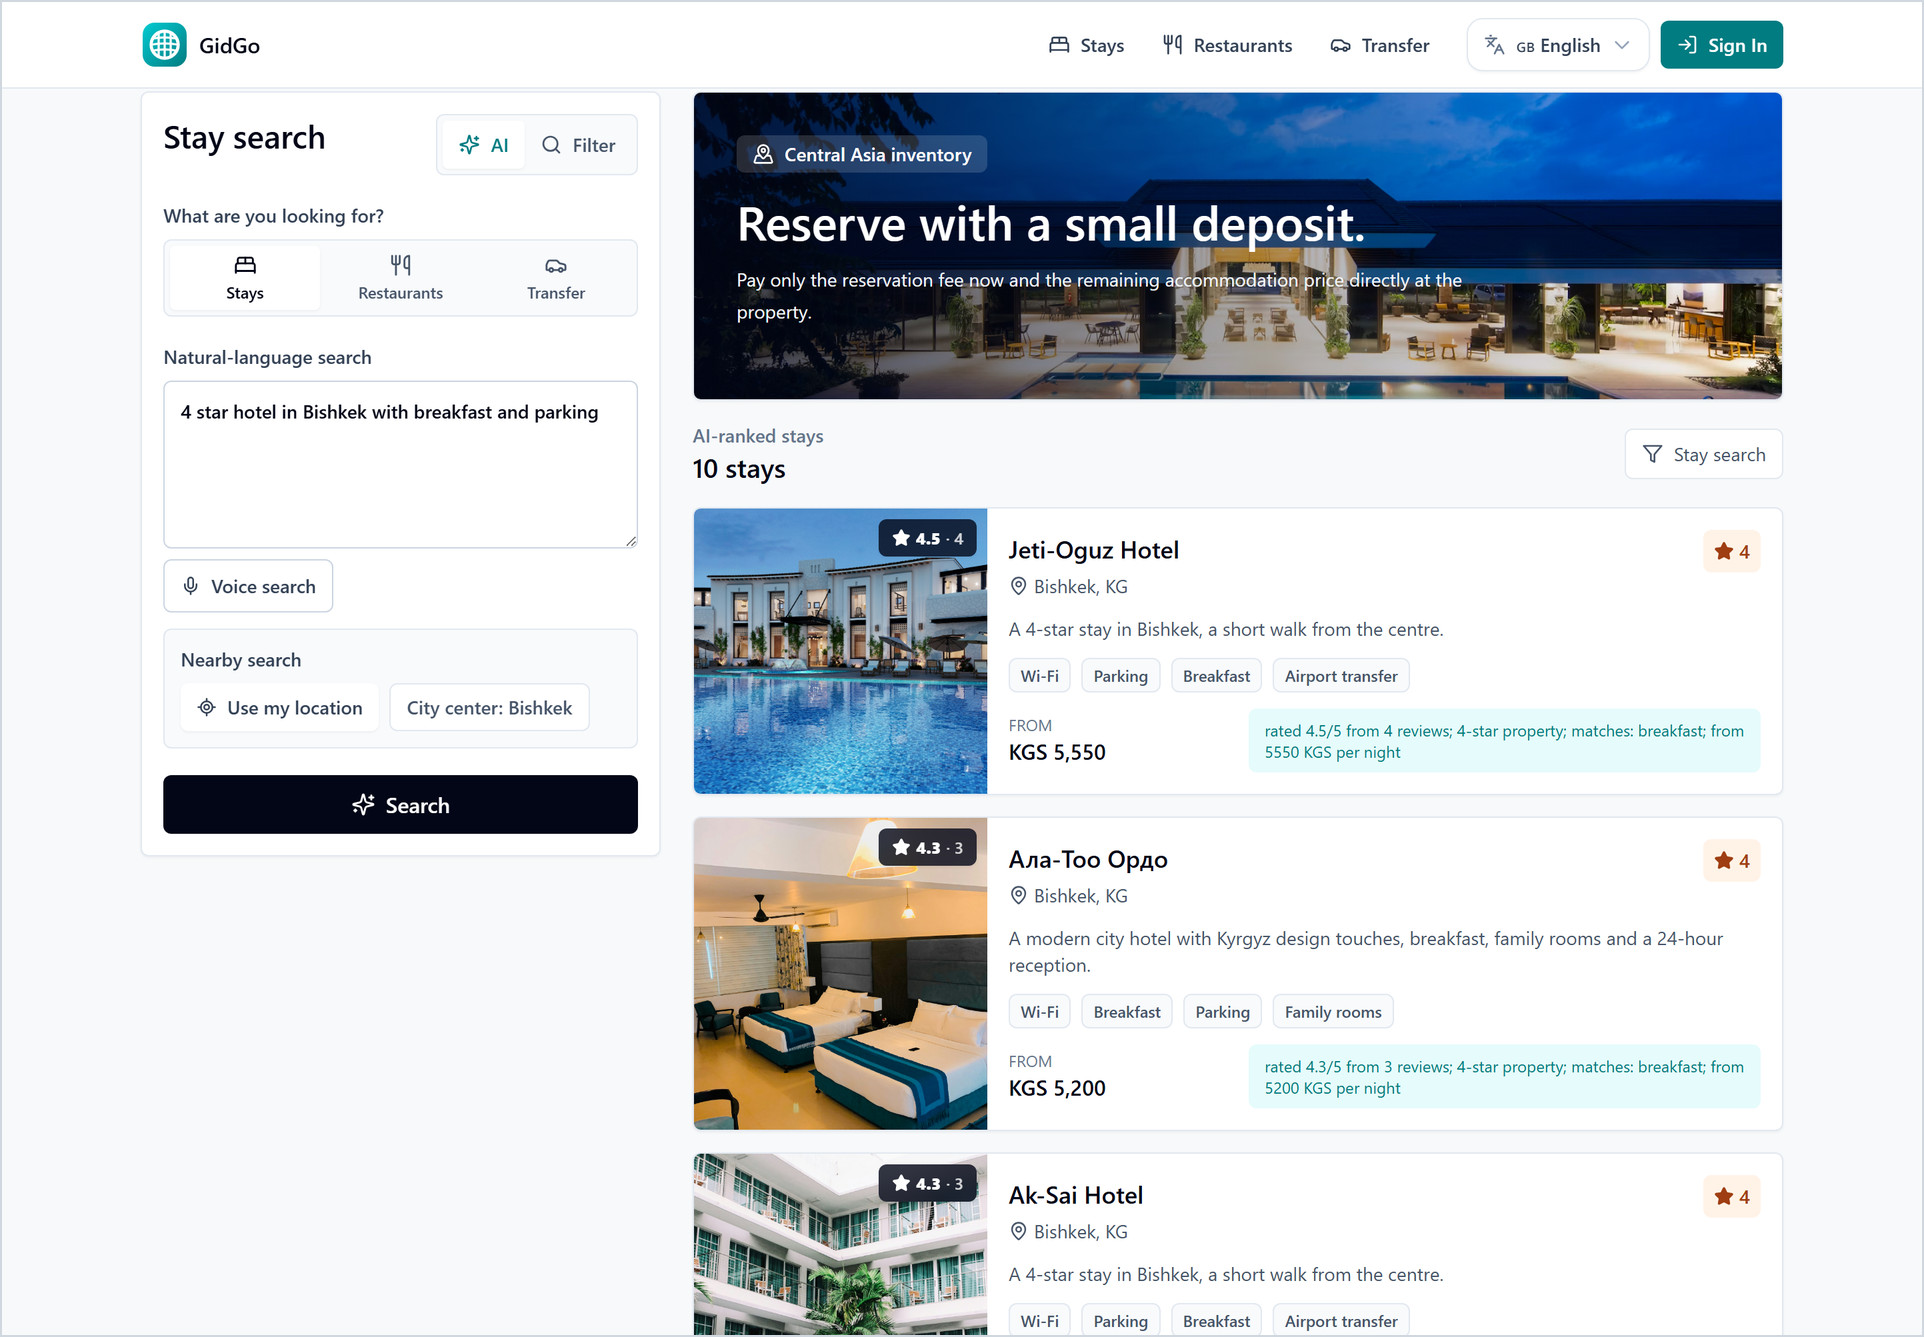
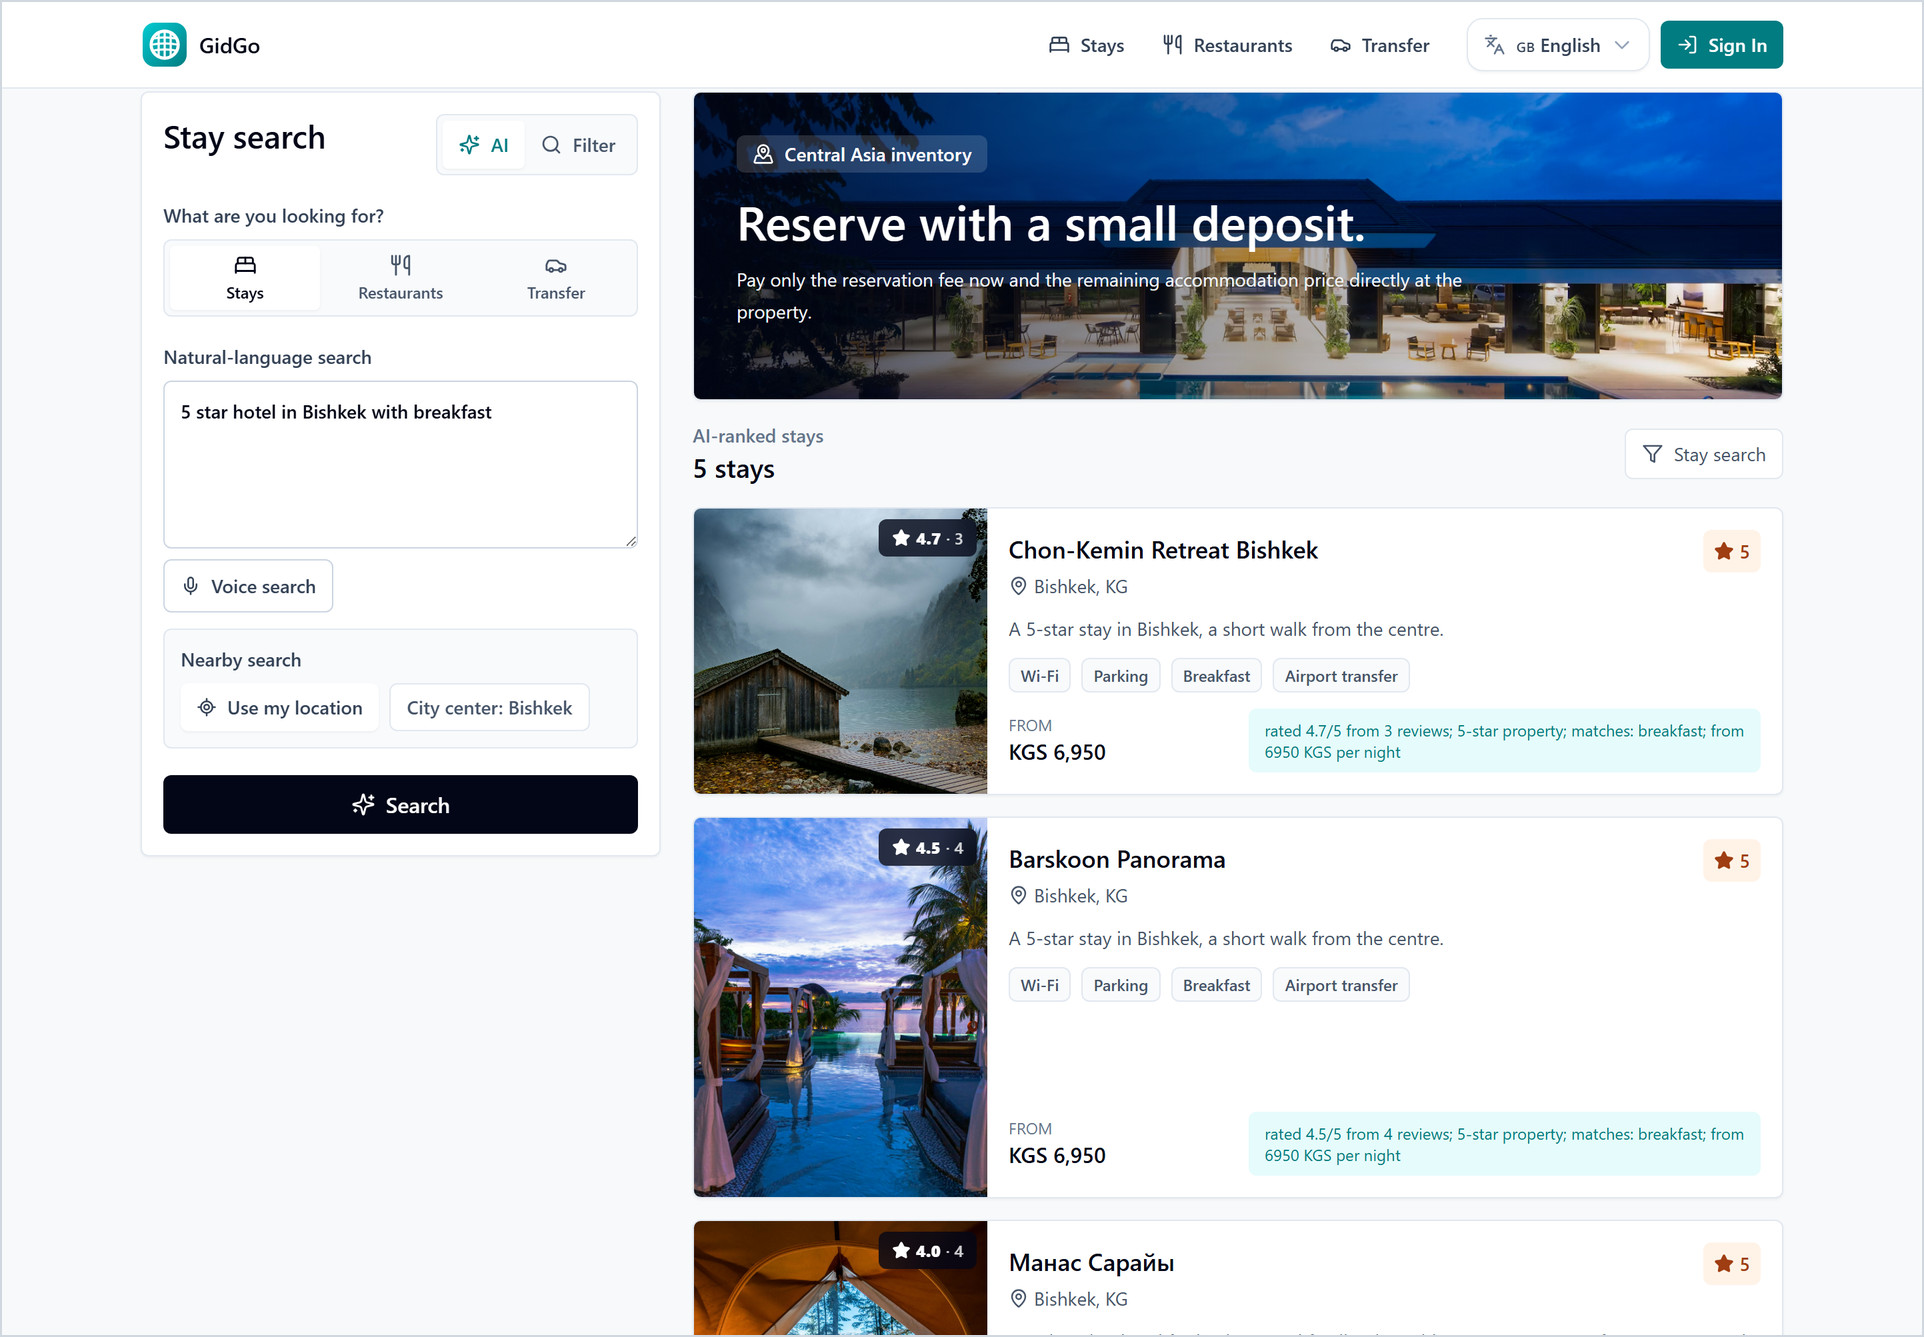
docs: lead with five-star results in the hero screenshot
The hero now shows "5 star hotel in Bishkek with breakfast": five rated
five-star stays, each with its match reason, and no new or test listings in
frame. The walkthrough suggests the same query, so a reviewer who tries it
sees what the screenshot promised.

Changed region(s): [[0.343, 0.3373, 0.9356, 1.0], [0.1247, 0.3067, 0.3119, 0.3373], [0.842, 0.6746, 0.8732, 0.7053]]

diff --git a/README.md b/README.md
@@ -12,7 +12,7 @@ This repository is a **public engineering overview**, not the application source
 
 ## See the product
 
-[![Natural-language hotel search in the Gidgo web demo: the request "4 star hotel in Bishkek with breakfast and parking" returns ten AI-ranked stays, each showing why it matched](assets/web-ai-search.jpg)](https://demo.gidgo.net)
+[![Natural-language hotel search in the Gidgo web demo: the request "5 star hotel in Bishkek with breakfast" returns five AI-ranked five-star stays, each showing why it matched](assets/web-ai-search.jpg)](https://demo.gidgo.net)
 
 **Natural-language search.** A plain request becomes structured filters — city, star class, amenities. The search index returns the listings, and each result states why it matched.
 
@@ -37,7 +37,7 @@ This repository is a **public engineering overview**, not the application source
 
 ### A three-minute walkthrough
 
-1. Open the [web demo](https://demo.gidgo.net) and try **“4 star hotel in Bishkek with breakfast and parking”**. Compare the returned listings with the request.
+1. Open the [web demo](https://demo.gidgo.net) and try **“5 star hotel in Bishkek with breakfast”**. Compare the returned listings with the request.
 2. Open a hotel to inspect rooms, amenities and the reservation price breakdown. Switch the interface language to explore the multilingual experience.
 3. Optionally try the [Android test build](https://demo.gidgo.net/app). This is a direct APK download, not a Google Play listing; the browser demo is sufficient for an initial review.
 
